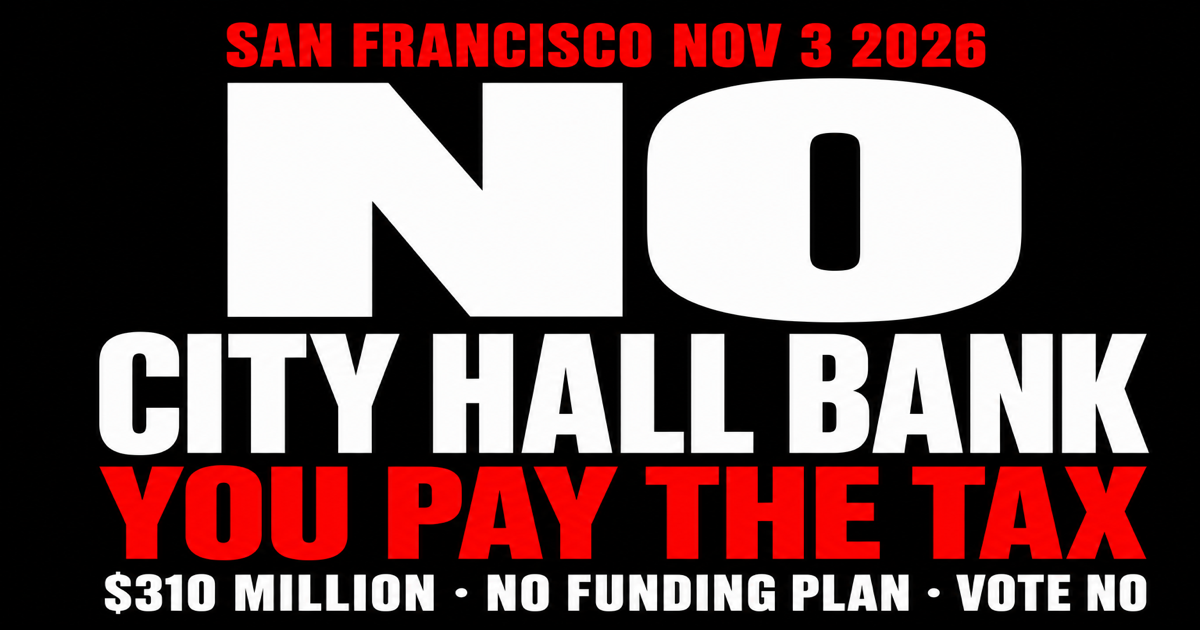
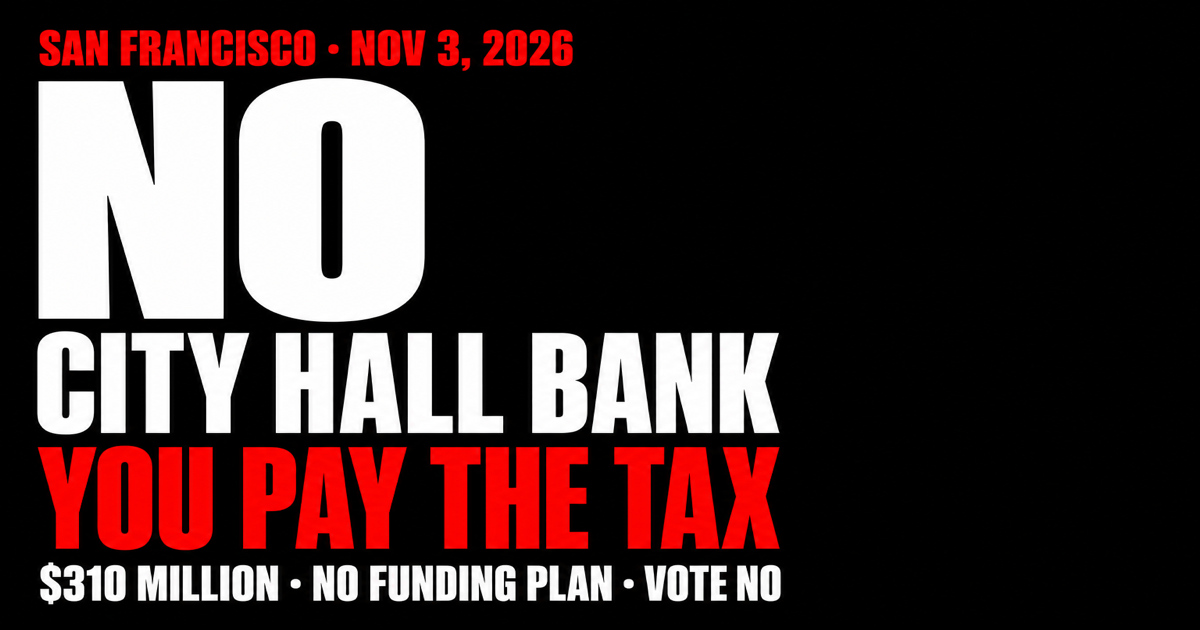
Improve link previews with OG title, description, and thumbnail.
Adds mailer-style open graph and Twitter images so shared links show a clear Vote No hook.

diff --git a/src/app/opengraph-image.tsx b/src/app/opengraph-image.tsx
@@ -1,0 +1,90 @@
+import { ImageResponse } from "next/og";
+
+export const runtime = "edge";
+export const alt =
+  "NO CITY HALL BANK — You Pay the Tax. Vote No November 3, 2026.";
+export const size = { width: 1200, height: 630 };
+export const contentType = "image/png";
+
+export default function OpenGraphImage() {
+  return new ImageResponse(
+    (
+      <div
+        style={{
+          height: "100%",
+          width: "100%",
+          display: "flex",
+          flexDirection: "column",
+          justifyContent: "space-between",
+          backgroundColor: "#000000",
+          color: "#ffffff",
+          padding: "56px 64px",
+          fontFamily: "Arial Black, Impact, sans-serif",
+        }}
+      >
+        <div
+          style={{
+            display: "flex",
+            fontSize: 28,
+            fontWeight: 700,
+            letterSpacing: "0.28em",
+            color: "#d6001c",
+          }}
+        >
+          SAN FRANCISCO · NOVEMBER 3, 2026
+        </div>
+
+        <div style={{ display: "flex", flexDirection: "column" }}>
+          <div
+            style={{
+              display: "flex",
+              fontSize: 210,
+              fontWeight: 900,
+              lineHeight: 0.85,
+              letterSpacing: "-0.04em",
+            }}
+          >
+            NO
+          </div>
+          <div
+            style={{
+              display: "flex",
+              fontSize: 64,
+              fontWeight: 800,
+              lineHeight: 1,
+              letterSpacing: "-0.02em",
+              marginTop: 8,
+            }}
+          >
+            CITY HALL BANK
+          </div>
+          <div
+            style={{
+              display: "flex",
+              fontSize: 56,
+              fontWeight: 800,
+              lineHeight: 1,
+              color: "#d6001c",
+              marginTop: 14,
+            }}
+          >
+            YOU PAY THE TAX
+          </div>
+        </div>
+
+        <div
+          style={{
+            display: "flex",
+            fontSize: 26,
+            fontWeight: 700,
+            letterSpacing: "0.04em",
+            color: "#ffffff",
+          }}
+        >
+          $310 MILLION · NO FUNDING PLAN · VOTE NO
+        </div>
+      </div>
+    ),
+    { ...size }
+  );
+}

diff --git a/src/app/twitter-image.tsx b/src/app/twitter-image.tsx
@@ -1,0 +1,90 @@
+import { ImageResponse } from "next/og";
+
+export const runtime = "edge";
+export const alt =
+  "NO CITY HALL BANK — You Pay the Tax. Vote No November 3, 2026.";
+export const size = { width: 1200, height: 630 };
+export const contentType = "image/png";
+
+export default function TwitterImage() {
+  return new ImageResponse(
+    (
+      <div
+        style={{
+          height: "100%",
+          width: "100%",
+          display: "flex",
+          flexDirection: "column",
+          justifyContent: "space-between",
+          backgroundColor: "#000000",
+          color: "#ffffff",
+          padding: "56px 64px",
+          fontFamily: "Arial Black, Impact, sans-serif",
+        }}
+      >
+        <div
+          style={{
+            display: "flex",
+            fontSize: 28,
+            fontWeight: 700,
+            letterSpacing: "0.28em",
+            color: "#d6001c",
+          }}
+        >
+          SAN FRANCISCO · NOVEMBER 3, 2026
+        </div>
+
+        <div style={{ display: "flex", flexDirection: "column" }}>
+          <div
+            style={{
+              display: "flex",
+              fontSize: 210,
+              fontWeight: 900,
+              lineHeight: 0.85,
+              letterSpacing: "-0.04em",
+            }}
+          >
+            NO
+          </div>
+          <div
+            style={{
+              display: "flex",
+              fontSize: 64,
+              fontWeight: 800,
+              lineHeight: 1,
+              letterSpacing: "-0.02em",
+              marginTop: 8,
+            }}
+          >
+            CITY HALL BANK
+          </div>
+          <div
+            style={{
+              display: "flex",
+              fontSize: 56,
+              fontWeight: 800,
+              lineHeight: 1,
+              color: "#d6001c",
+              marginTop: 14,
+            }}
+          >
+            YOU PAY THE TAX
+          </div>
+        </div>
+
+        <div
+          style={{
+            display: "flex",
+            fontSize: 26,
+            fontWeight: 700,
+            letterSpacing: "0.04em",
+            color: "#ffffff",
+          }}
+        >
+          $310 MILLION · NO FUNDING PLAN · VOTE NO
+        </div>
+      </div>
+    ),
+    { ...size }
+  );
+}
